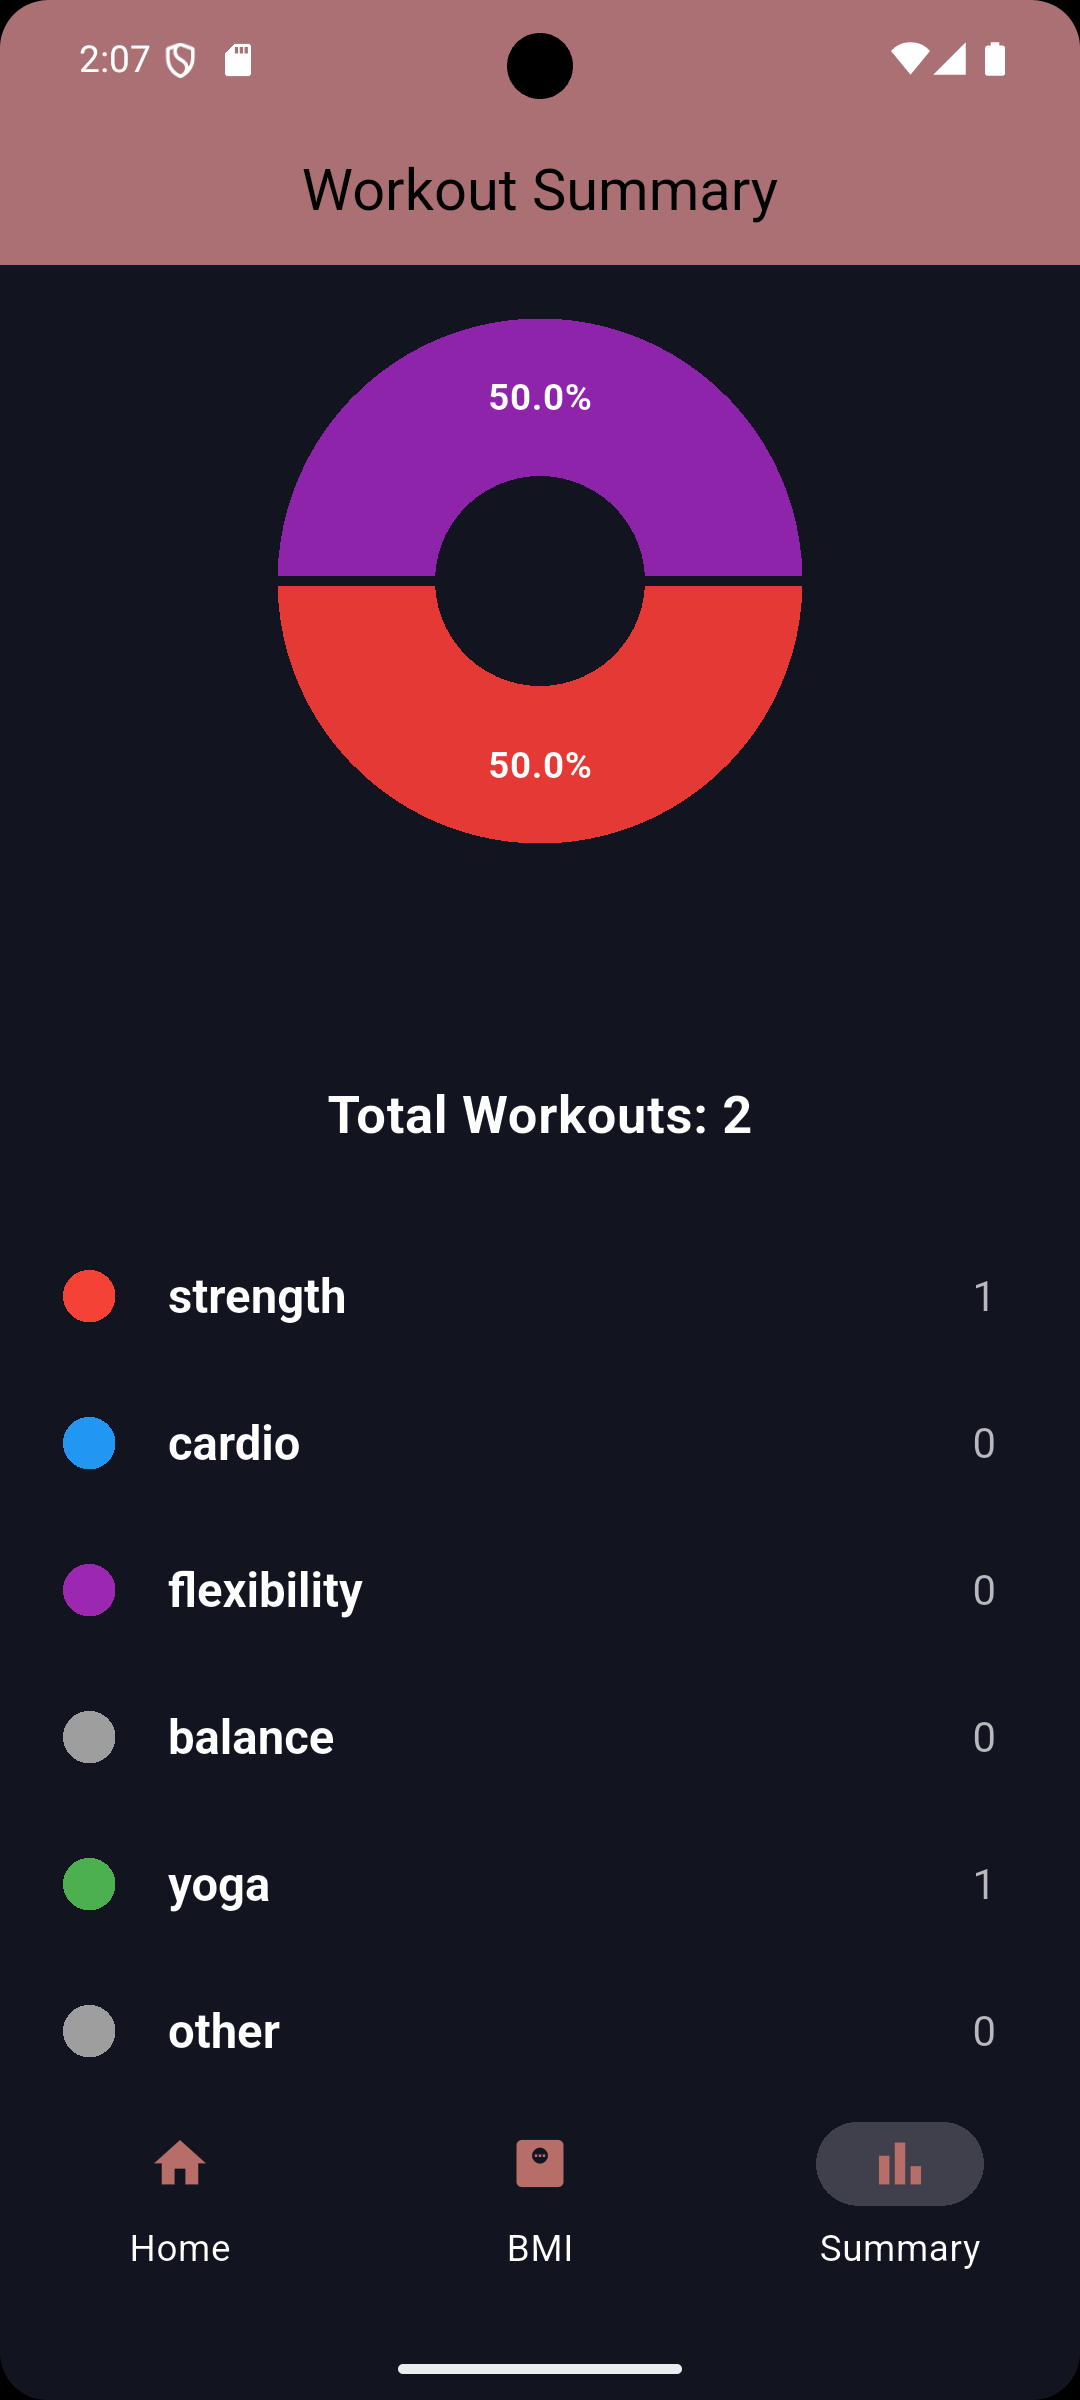
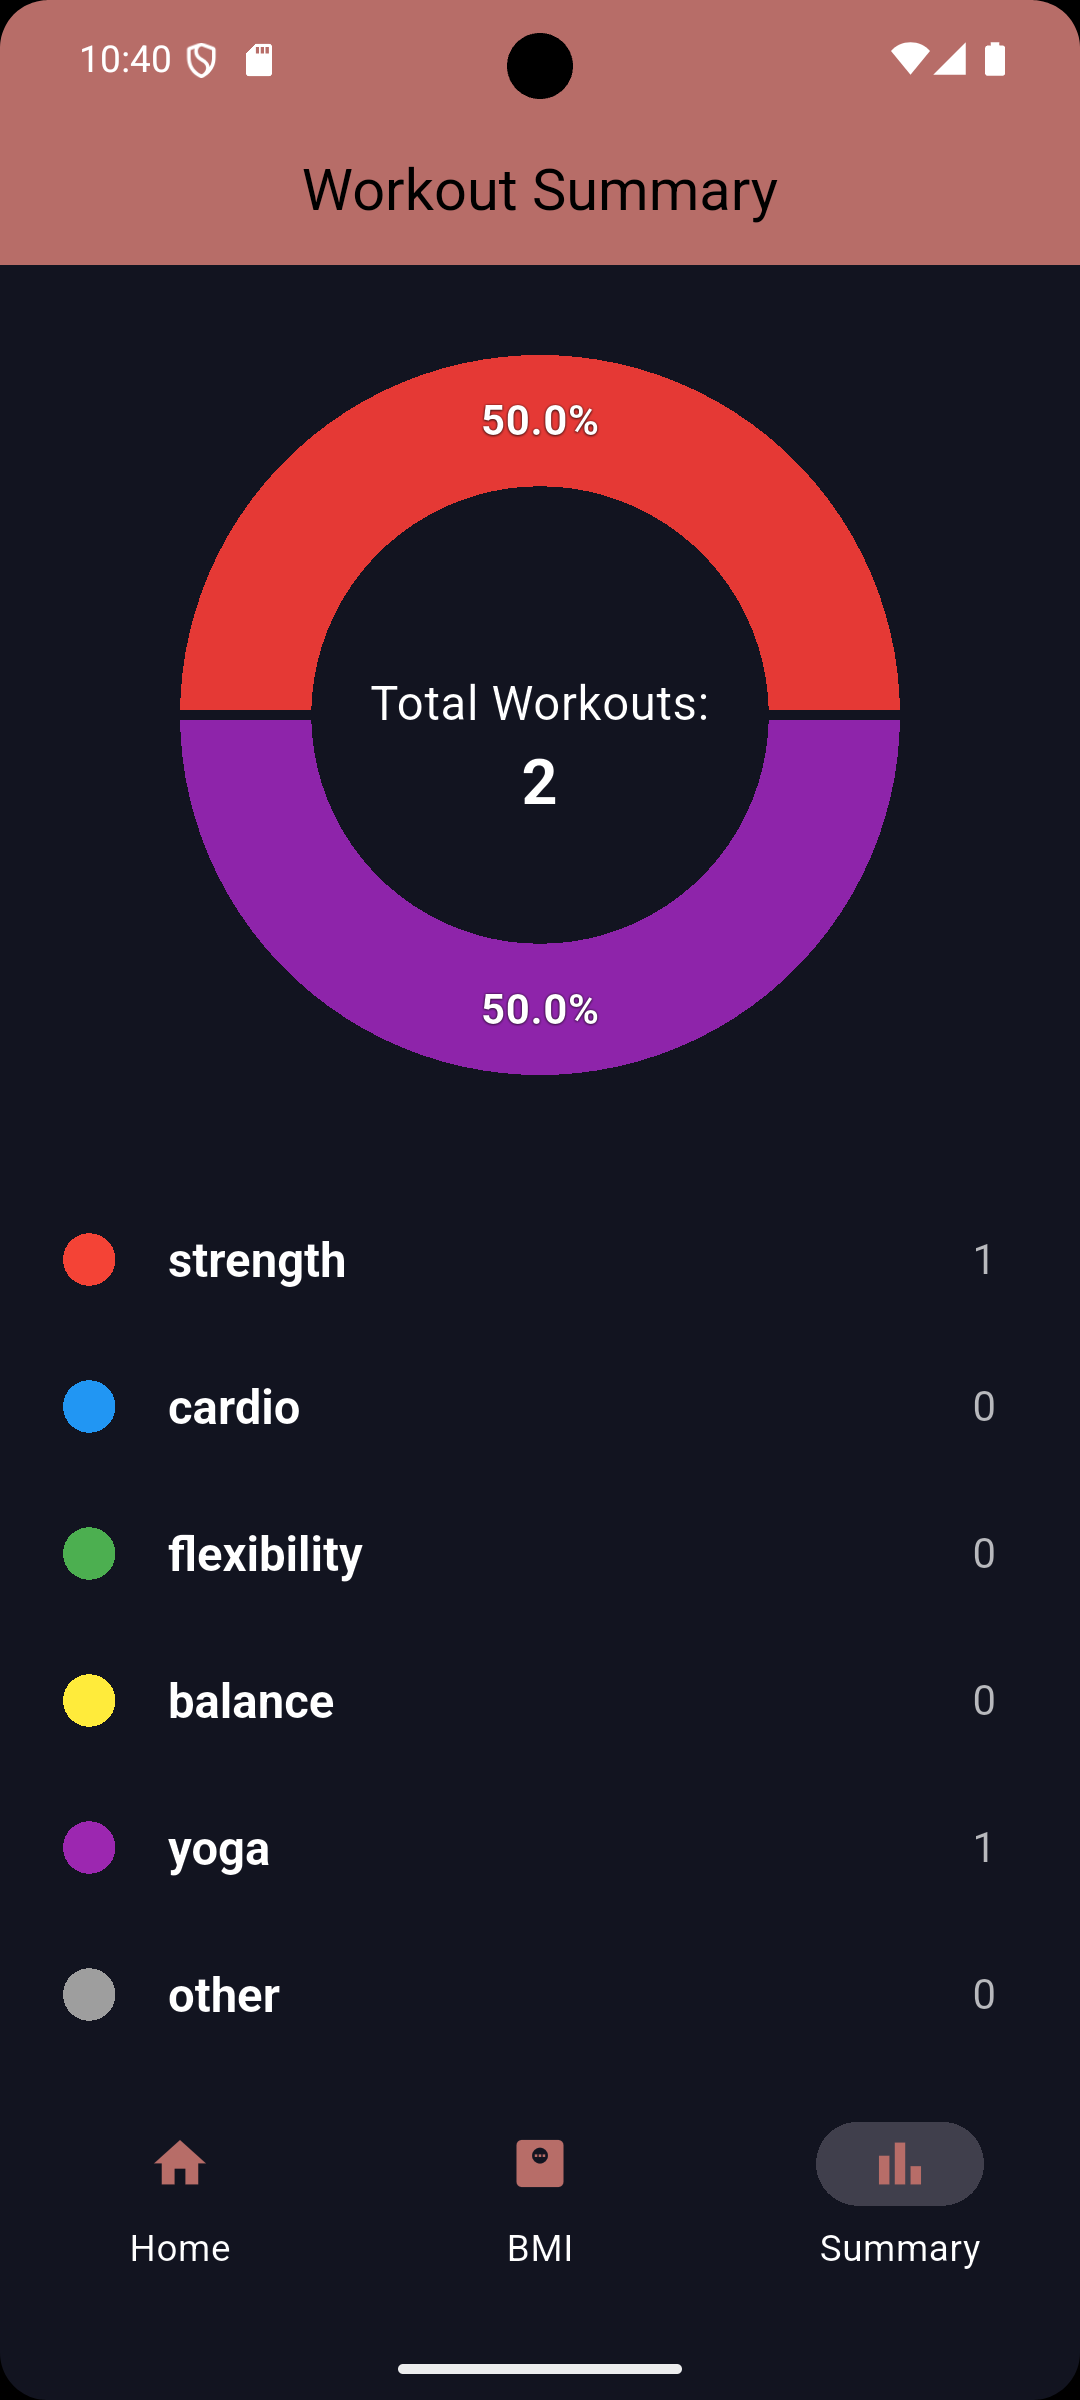
final screenshots updated

diff --git a/fitnesstrackerapp/lib/widgets/workout_pie_chart.dart b/fitnesstrackerapp/lib/widgets/workout_pie_chart.dart
@@ -2,15 +2,22 @@ import 'package:flutter/material.dart';
 import 'package:fl_chart/fl_chart.dart';
 import '../model/workout.dart';
 
-class WorkoutPieChart extends StatelessWidget {
+class WorkoutPieChart extends StatefulWidget {
   final List<Workout> workouts;
 
   const WorkoutPieChart({super.key, required this.workouts});
 
+  @override
+  State<WorkoutPieChart> createState() => _WorkoutPieChartState();
+}
+
+class _WorkoutPieChartState extends State<WorkoutPieChart> {
+  int touchedIndex = -1;
+
   Map<Category, int> _calculateCategoryCounts() {
     final Map<Category, int> counts = {};
-    for (var w in workouts) {
-      counts[w.category] = (counts[w.category] ?? 0) + 1;
+    for (var workout in widget.workouts) {
+      counts[workout.category] = (counts[workout.category] ?? 0) + 1;
     }
     return counts;
   }
@@ -26,34 +33,113 @@ class WorkoutPieChart extends StatelessWidget {
 
     return AspectRatio(
       aspectRatio: 1.2,
-      child: PieChart(
-        PieChartData(
-          sectionsSpace: 4,
-          centerSpaceRadius: 40,
-          sections: categoryCounts.entries.map((entry) {
-            final category = entry.key;
-            final count = entry.value;
-            final percent = (count / total * 100).toStringAsFixed(1);
-
-            return PieChartSectionData(
-              color: Workout(
-                title: '',
-                category: category,
-                duration: 0,
-                date: DateTime.now(),
-              ).getCategoryColor(),
-              value: count.toDouble(),
-              title: '$percent%',
-              radius: 60,
-              titleStyle: const TextStyle(
-                fontSize: 14,
-                fontWeight: FontWeight.bold,
-                color: Colors.white,
-              ),
-            );
-          }).toList(),
-        ),
+      child: Row(
+        children: <Widget>[
+          Expanded(
+            child: Stack(
+              alignment: Alignment.center,
+              children: [
+                AspectRatio(
+                  aspectRatio: 1.5,
+                  child: PieChart(
+                    PieChartData(
+                      startDegreeOffset: 180,
+                      pieTouchData: PieTouchData(
+                        touchCallback: (FlTouchEvent event, pieTouchResponse) {
+                          setState(() {
+                            if (!event.isInterestedForInteractions ||
+                                pieTouchResponse == null ||
+                                pieTouchResponse.touchedSection == null) {
+                              touchedIndex = -1;
+                              return;
+                            }
+                            touchedIndex = pieTouchResponse
+                                .touchedSection!
+                                .touchedSectionIndex;
+                          });
+                        },
+                      ),
+                      borderData: FlBorderData(show: false),
+                      sectionsSpace: 4,
+                      centerSpaceRadius: double.infinity,
+                      sections: _generateSections(categoryCounts, total),
+                    ),
+                  ),
+                ),
+                Positioned(
+                  width: 150,
+                  top: 120,
+                  child: Column(
+                    children: [
+                      Text(
+                        'Total Workouts:',
+                        softWrap: true,
+                        textAlign: TextAlign.center,
+                        style: TextStyle(
+                          fontSize: 18,
+                          fontWeight: FontWeight.normal,
+                          color: Colors.white,
+                        ),
+                      ),
+                      Text(
+                        '$total',
+                        softWrap: true,
+                        textAlign: TextAlign.center,
+                        style: TextStyle(
+                          fontSize: 24,
+                          fontWeight: FontWeight.bold,
+                          color: Colors.white,
+                        ),
+                      ),
+                    ],
+                  ),
+                ),
+              ],
+            ),
+          ),
+        ],
       ),
     );
+  }
+
+  List<PieChartSectionData> _generateSections(
+    Map<Category, int> categoryCounts,
+    int total,
+  ) {
+    final shadows = [const Shadow(color: Colors.black, blurRadius: 2)];
+
+    return categoryCounts.entries.mapIndexed((index, entry) {
+      final category = entry.key;
+      final count = entry.value;
+      final isTouched = index == touchedIndex;
+      final fontSize = isTouched ? 25.0 : 16.0;
+      final radius = isTouched ? 60.0 : 50.0;
+      final percent = (count / total * 100).toStringAsFixed(1);
+
+      return PieChartSectionData(
+        color: Workout(
+          title: '',
+          category: category,
+          duration: 0,
+          date: DateTime.now(),
+        ).getCategoryColor(),
+        value: count.toDouble(),
+        title: '$percent%',
+        radius: radius,
+        titleStyle: TextStyle(
+          fontSize: fontSize,
+          fontWeight: FontWeight.bold,
+          color: Colors.white,
+          shadows: shadows,
+        ),
+      );
+    }).toList();
+  }
+}
+
+extension<T> on Iterable<T> {
+  Iterable<E> mapIndexed<E>(E Function(int index, T item) f) {
+    int index = 0;
+    return map((item) => f(index++, item));
   }
 }

diff --git a/fitnesstrackerapp/lib/screens/add_workout_screen.dart b/fitnesstrackerapp/lib/screens/add_workout_screen.dart
@@ -19,6 +19,7 @@ class AddWorkoutScreenState extends State<AddWorkoutScreen> {
   Category selectedCategory = Category.other;
   DateTime selectedDate = DateTime.now();
 
+  // Function to validate inputs and return an error message if any
   String validateInputs() {
     final String errorMessage;
     if (titleController.text.isEmpty || durationController.text.isEmpty) {
@@ -32,7 +33,8 @@ class AddWorkoutScreenState extends State<AddWorkoutScreen> {
     return errorMessage;
   }
 
-  showValidationDialog(String message) {
+  // Function to show a dialog with the validation message
+  void showValidationDialog(String message) {
     // Show a dialog with the validation message
     if (message.isEmpty) return;
     showDialog(
@@ -52,61 +54,39 @@ class AddWorkoutScreenState extends State<AddWorkoutScreen> {
     );
   }
 
+  // Function to get the category icon based on the selected category
   Widget getCategoryIcon(Category category) {
     // Returns a CircleAvatar with an icon based on the category
     // and a background color that matches the category.
     return switch (category) {
       Category.strength => CircleAvatar(
         backgroundColor: Colors.red.shade600.withAlpha(185),
-        child: Icon(
-          Icons.fitness_center,
-          size: 30,
-          // color: getCategoryColor()
-        ),
+        child: Icon(Icons.fitness_center, size: 30),
       ),
       Category.cardio => CircleAvatar(
         backgroundColor: Colors.blue.shade600.withAlpha(185),
-        child: Icon(
-          Icons.directions_run,
-          size: 30,
-          //  color: getCategoryColor()
-        ),
+        child: Icon(Icons.directions_run, size: 30),
       ),
       Category.flexibility => CircleAvatar(
         backgroundColor: Colors.green.shade600.withAlpha(185),
-        child: Icon(
-          Icons.accessibility_new,
-          size: 30,
-          // color: getCategoryColor(),
-        ), // balcony
+        child: Icon(Icons.accessibility_new, size: 30),
       ),
       Category.balance => CircleAvatar(
         backgroundColor: Colors.yellow.shade600.withAlpha(175),
-        child: Icon(
-          Icons.balance,
-          size: 30,
-          //  color: getCategoryColor()
-        ),
+        child: Icon(Icons.balance, size: 30),
       ),
       Category.yoga => CircleAvatar(
         backgroundColor: Colors.purple.shade600.withAlpha(175),
-        child: Icon(
-          Icons.self_improvement,
-          size: 30,
-          // color: getCategoryColor()
-        ),
+        child: Icon(Icons.self_improvement, size: 30),
       ),
       _ => CircleAvatar(
         backgroundColor: Colors.grey.shade600.withAlpha(175),
-        child: Icon(
-          Icons.category,
-          size: 30,
-          // color: getCategoryColor()
-        ),
+        child: Icon(Icons.category, size: 30),
       ),
     };
   }
 
+  // Function to open the date picker and set the selected date
   void openDatePicker() async {
     DateTime firstDate = DateTime(2025, 1, 1);
     DateTime lastDate = DateTime(2025, 12, 31);
@@ -117,6 +97,9 @@ class AddWorkoutScreenState extends State<AddWorkoutScreen> {
       lastDate: lastDate,
     );
 
+    // If the user selects a date, update the selectedDate state
+    // If the user cancels the date picker, dateSelected will be null
+    // and does not update the selectedDate state.
     if (dateSelected != null) {
       setState(() {
         selectedDate = dateSelected;
@@ -124,6 +107,7 @@ class AddWorkoutScreenState extends State<AddWorkoutScreen> {
     }
   }
 
+  // Function to build the dropdown label with the category icon and name
   Widget buildDropdownLabel(Category category, {bool isSelected = false}) {
     return Row(
       mainAxisAlignment: MainAxisAlignment.start,
@@ -337,12 +321,11 @@ class AddWorkoutScreenState extends State<AddWorkoutScreen> {
                 ElevatedButton(
                   onPressed: () {
                     final validationMessage = validateInputs();
+                    // If validation fails, show a dialog and return
                     if (validationMessage.isNotEmpty) {
                       showValidationDialog(validationMessage);
-                      // If validation fails, show a dialog and return
                       return;
                     }
-
                     // Create a new Workout object and pass it to the callback
                     Workout workout = Workout(
                       title: titleController.text,

diff --git a/fitnesstrackerapp/lib/screens/summary_screen.dart b/fitnesstrackerapp/lib/screens/summary_screen.dart
@@ -11,8 +11,7 @@ class SummaryScreen extends StatelessWidget {
 
   @override
   Widget build(BuildContext context) {
-    // final workouts = Provider.of<WorkoutProvider>(context).workouts;
-
+    // function to get total workouts per category
     String getTotalWorkoutPerCategory(Category category) {
       int total = 0;
       for (var workout in workouts) {
@@ -23,39 +22,30 @@ class SummaryScreen extends StatelessWidget {
       return total.toString();
     }
 
+    // function to get category color by name
     Color getCategoryColorByName(String categoryName) {
       switch (categoryName) {
         case "strength":
           return Colors.red;
         case "cardio":
           return Colors.blue;
-        case "yoga":
-          return Colors.green;
         case "flexibility":
+          return Colors.green;
+        case "balance":
+          return Colors.yellow;
+        case "yoga":
           return Colors.purple;
-        case "other":
-          return Colors.grey;
         default:
           return Colors.grey; // unknown category kept in other
       }
     }
 
+    // function to build the summary content
     Widget buildSummaryContent(BuildContext context, List<Workout> workouts) {
       return SingleChildScrollView(
         child: Column(
           children: [
             WorkoutPieChart(workouts: workouts),
-            Padding(
-              padding: const EdgeInsets.all(8.0),
-              child: Text(
-                'Total Workouts: ${workouts.length}',
-                style: const TextStyle(
-                  fontSize: 20,
-                  fontWeight: FontWeight.bold,
-                  color: Colors.white,
-                ),
-              ),
-            ),
             ListView(
               shrinkWrap: true,
               physics: const NeverScrollableScrollPhysics(),
